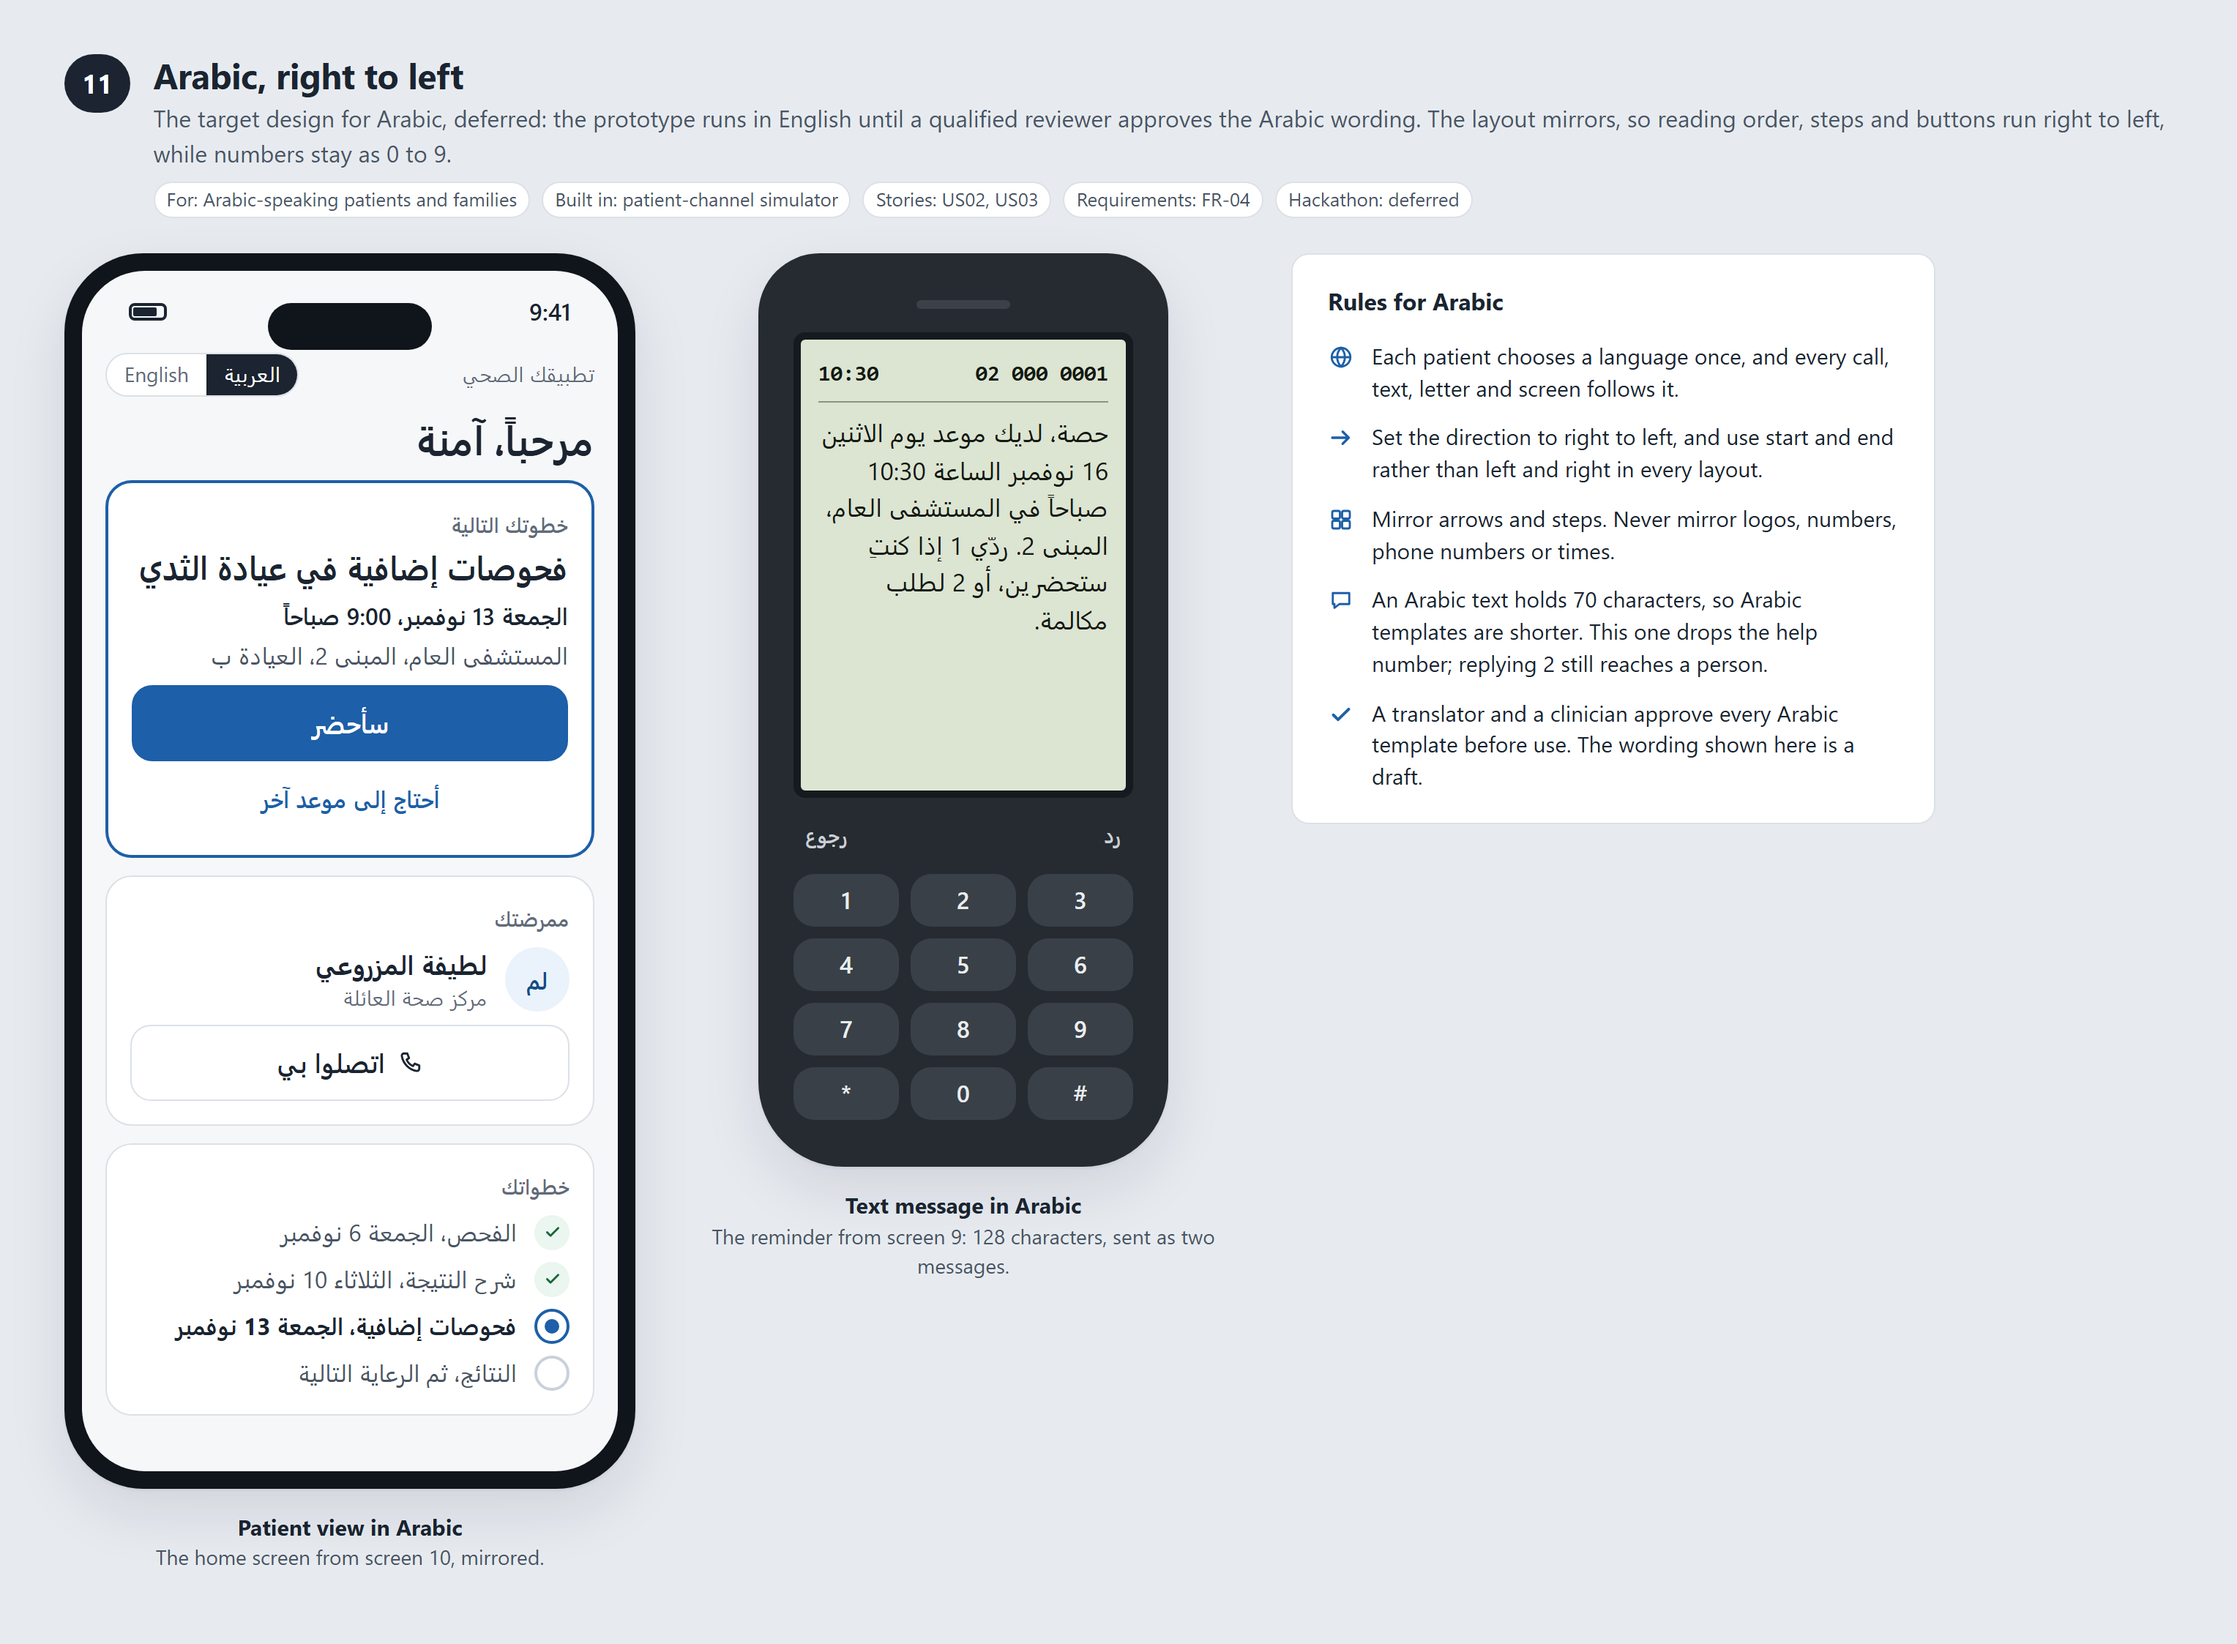
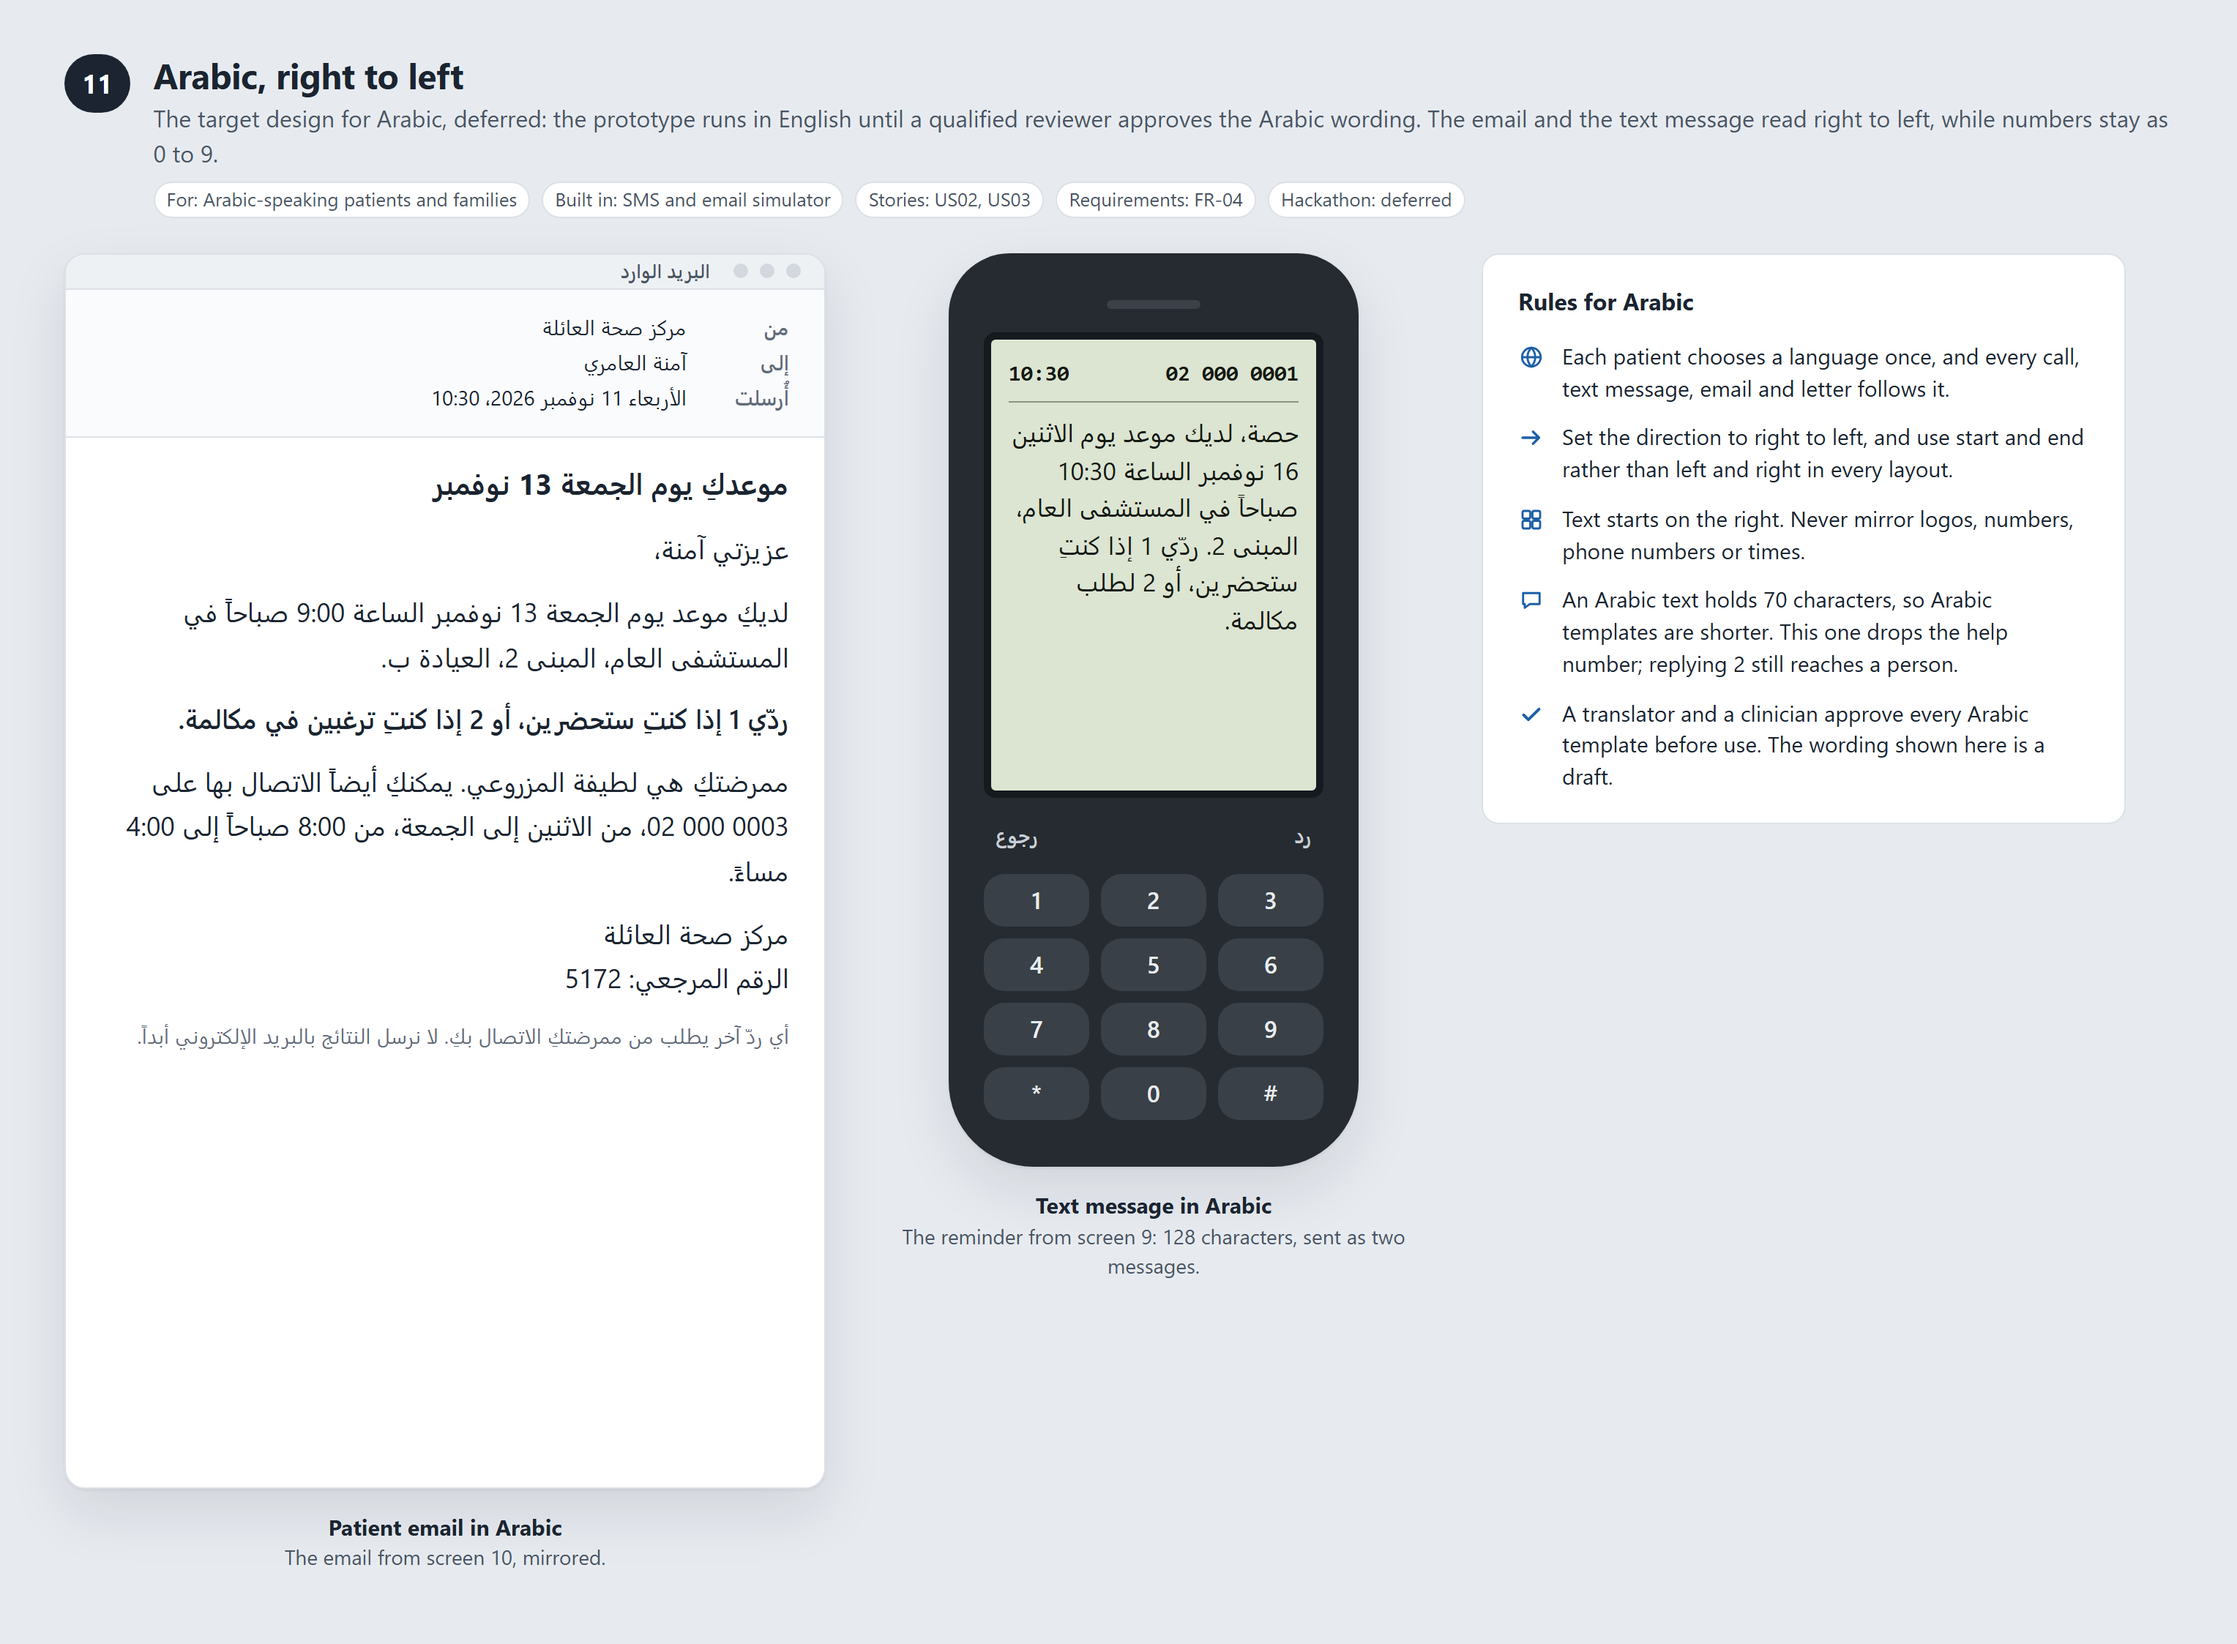
Show the patient's email, not an app (P20)
Screen 10 is now an email in a plain mail window: a subject, the date, time and place,
"Reply 1 if you will come, 2 if you would like a call" and a named nurse, with no links,
buttons, teach-back, rating or result (decisions 21, 23 and 24). Screen 11 mirrors the
email in Arabic instead of an app screen.

Renames 10-patient-view.png to 10-patient-email.png. The design rules and type scale no
longer describe patient screens.

diff --git a/docs/ui-design/README.md b/docs/ui-design/README.md
@@ -3,7 +3,7 @@
 One flow, 22 screens and a guide to who sees what, for CareLoop, ready to build. Together they cover user stories US01 to US16 and every point of Challenge 05, Closing the Screening-to-Care Loop. Every person, number and facility shown is invented.
 
 - Screens 1 to 13 are grouped by the component that builds them: 1 to 4 in the CareLoop web app, 5 to 8 in the HIS simulator, 9 to 12 in the SMS and email simulator, and 13 across all of them.
-- CareLoop reaches patients, caregivers and staff by text message and email only; there is no patient app or portal (decisions 21 to 30 in the [gap analysis](../ui-design-gap-analysis.md), C22). Screen 10 is now the patient's email. The image `10-patient-view.png` and `ui-design.html` still show the earlier app design and are to be redrawn (P20).
+- CareLoop reaches patients, caregivers and staff by text message and email only; there is no patient app or portal (decisions 21 to 30 in the [gap analysis](../ui-design-gap-analysis.md), C22). Screen 10 is the patient's email.
 - Screen 14 is the guide to who sees what.
 - Screens 15 to 23 follow one patient, Hessa Al Dhaheri, from her first visit to the all clear. Screens 22 and 23 come after the screening case closes: they are the target design, not part of the hackathon build.
 - For the hackathon, only CareLoop's own screens and the patient's phone are shown. Steps in the hospital system are simulated ([What the judges see](#what-the-judges-see)).
@@ -264,12 +264,13 @@ Hessa's journey:
 
 ### 10. Patient email
 
-![Patient view, the earlier app design, to be redrawn as an email](10-patient-view.png)
+![Patient email](10-patient-email.png)
 
 - There is no patient app or portal (decision 21). A patient with an email address on record gets the same message as screen 9 by email: a subject, the dates and places, and how to reply. No links, and no result: a person gives it.
-- She replies by email the same way as by text: 1 sends `NotificationUpdated/Acknowledged` (decision 2), and 2 or any other reply sends `/CallRequested`.
+- Shown with Amna Al Ameri in a plain mail window. The email from the Family Health Centre has the subject "Your appointment on Friday 13 November", the date, time and place, "Reply 1 if you will come, 2 if you would like a call", and her named nurse with a number to call. There are no buttons, links, questions or ratings.
+- She replies by email the same way as by text: 1 sends `NotificationUpdated/Acknowledged` (decision 2), and 2 or any other reply sends `/CallRequested` (decision 29). The screen shows both: her reply of 1, and a reply such as "Can I come later in the day?", which gives her nurse a call-back task.
 - Saying the next step back (`/Understood`) and the confidence rating (`/ConfidenceRated`, 1 to 5) are not asked by email. The nurse records them on screen 2 after a call (decision 30). Acknowledgement and understanding are still recorded separately.
-- The image shows the earlier app design (P20).
+- In the prototype, the email is shown in the SMS and email simulator, not sent, and it is in English (screen 11).
 
 ### 11. Arabic, right to left
 
@@ -277,7 +278,7 @@ Hessa's journey:
 
 - Deferred: this is the target design. The prototype runs in English, and every template and screen is keyed by language from the start, as `AGENTS.md` requires, so Arabic needs no new code.
 - Arabic is added once a qualified bilingual reviewer approves the wording ([AI specification](../ai-design/ai-spec.md), section 2.3). The wording shown is a draft.
-- The same messages and events as 9 and 10. Set `dir="rtl"` and use logical CSS properties (start and end, not left and right).
+- The same messages and events as 9 and 10: the screen shows the email from screen 10 and the text from screen 9 in Arabic. Set `dir="rtl"` and use logical CSS properties (start and end, not left and right).
 - An Arabic text holds 70 characters, or 67 per part when split, so Arabic templates are shorter. The reminder shown is 128 characters: two messages.
 
 ### 12. Caregiver and email
@@ -400,13 +401,11 @@ Withdrawn after the 13 November call: C14, C17 and C18 served hospital-system sc
 | Size | Used for |
 |---|---|
 | 13 px | Captions and labels on staff screens |
-| 14 px | Controls, secondary text and patient fine print |
+| 14 px | Controls, secondary text and the small print in emails |
 | 15 px | Body text on staff screens |
-| 16 px | Body text on patient screens; card titles on staff screens |
-| 18 px | Patient buttons and names |
-| 20 px | Section titles on staff screens; questions on patient screens |
-| 22 px | Card titles on patient screens |
-| 24 px | Page titles on patient screens |
+| 16 px | Text messages and emails to patients; card titles on staff screens |
+| 18 px | Email subjects, patient names on small banners, and Arabic email text |
+| 20 px | Section titles and patient names on staff screens |
 | 28 px | Page titles |
 | 40 px | Headline numbers |
 
@@ -438,7 +437,7 @@ Type is Segoe UI, falling back to the system font. All spacing is a multiple of 
 - Staff screens show two patient identifiers (name with date of birth or MRN), and the Emirates ID is always masked.
 - Texts, automated calls and emails never contain results, diagnoses, body parts or links.
 - AI output is labelled "AI draft" and needs a named person's approval. AI never sets urgency, sends messages or closes cases.
-- Patient screens use 16 px text or larger and buttons at least 44 px tall, and are ready for right-to-left languages.
+- Patients get text messages and emails, never a screen. The simulator shows them at 16 px or larger, and every template is ready for right-to-left languages.
 - Names from the code (stages, events and roles) appear only on the flow and on who sees what, in a monospace font. Product screens use plain words.
 - Text meets WCAG 2.2 AA contrast (4.5:1), and field borders meet 3:1. Every text element was checked automatically.
 
